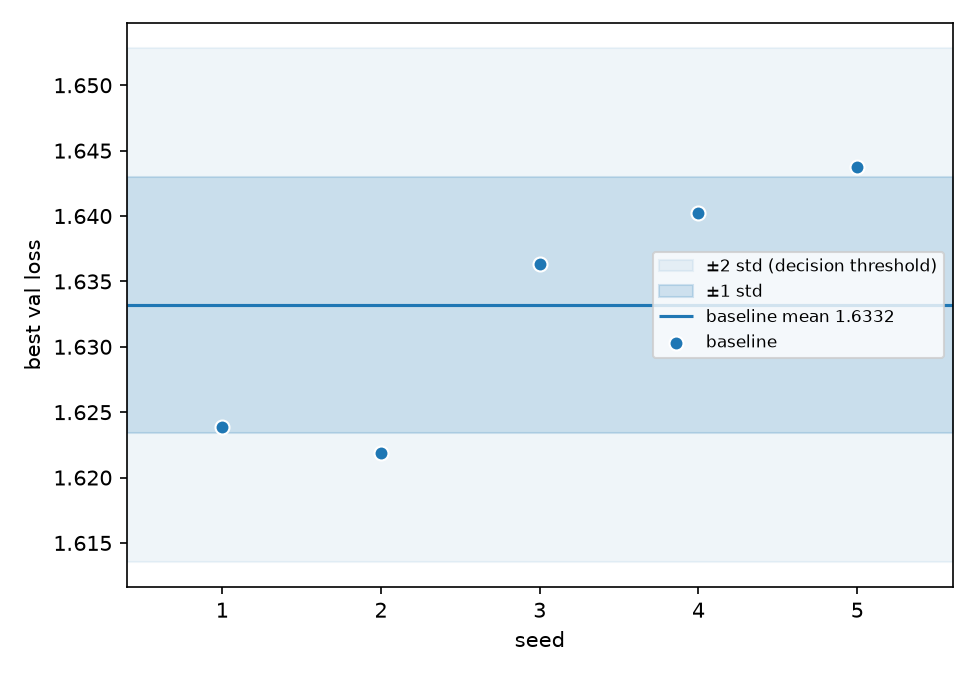
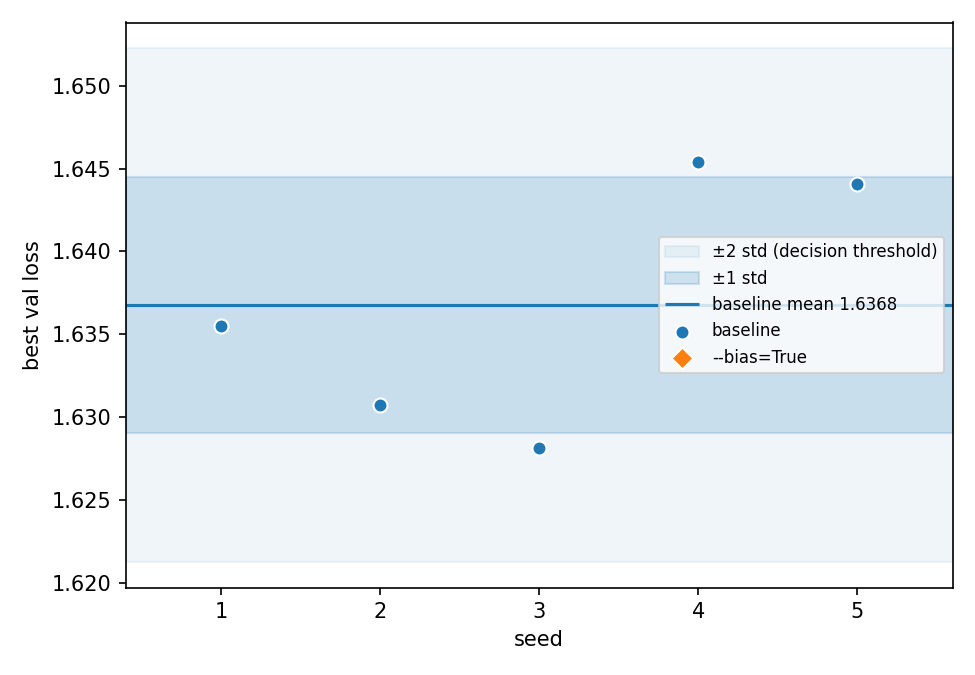
fix: default bias config to true, update 5-seed baseline numbers

diff --git a/configs/base.py b/configs/base.py
@@ -21,7 +21,7 @@ n_head = 4
 n_layer = 4
 n_kv_heads = 2                        
 
-bias = False                        
+bias = True                     
 
 # Architecture — flip these to test a different combination
 attention = "mha"

diff --git a/log.md b/log.md
@@ -30,17 +30,21 @@ Ran the baseline config over 5 seeds; init_seed and train_seed move together; ev
 
 | seed | best val | best iter | train @ best | gap | params | sec/iter |
 |---|---|---|---|---|---|---|
-| 1 | 1.6239 | 2000 | 1.4258 | 0.198 | 805,441 | 0.0453 |
-| 2 | 1.6219 | 2000 | 1.4214 | 0.201 | 805,441 | 0.0445 |
-| 3 | 1.6363 | 2000 | 1.4287 | 0.208 | 805,441 | 0.0461 |
-| 4 | 1.6402 | 2000 | 1.4302 | 0.210 | 805,441 | 0.0447 |
-| 5 | 1.6437 | 1800 | 1.4431 | 0.201 | 805,441 | 0.0453 |
-| **mean ± std** | **1.6332 ± 0.0098** | | | 0.203 ± 0.005 | | 0.0452 |
+| 1 | 1.6355 | 2000 | 1.4265 | 0.209 | 810,049 | 0.0538 |
+| 2 | 1.6307 | 1800 | 1.4333 | 0.197 | 810,049 | 0.0528 |
+| 3 | 1.6281 | 2000 | 1.4211 | 0.207 | 810,049 | 0.0518 |
+| 4 | 1.6454 | 2000 | 1.4312 | 0.214 | 810,049 | 0.0546 |
+| 5 | 1.6441 | 1800 | 1.4419 | 0.202 | 810,049 | 0.0534 |
+| **mean ± std** | **1.6368 ± 0.0077** | | | 0.206 ± 0.006 | | 0.0533 |
 
 <p align="center">
     <img src="./plots/seed_strip.png" alt="Baseline seed spread">
 </p>
 
-- **Decision rule:** Baseline best val is 1.6332 ± 0.0098 over 5 seeds, so a variant is clearly different only if it lands outside the ±2 std band (about 1.613 to 1.653) and is noise if it stays within 1 std. In between, I'll rerun it at seeds 2-5 and count it only if the mean gap exceeds 2 std and the sign matches in at least 4 of 5 paired seeds.
-- The gap (val minus train) shows how much the model is overfitting, and its tiny spread (±0.005) means a variant whose gap moves clearly outside 0.203 changed how it generalizes, which tells you whether a val-loss win came from fitting better or from overfitting less.
-- Four seeds peaked at iter 2000 and seed 5 at 1800, so the runs are still improving slightly at the end of 2000 iterations.
+- **Decision rule:** Baseline best val is 1.6368 ± 0.0077 over 5 seeds, so a variant is clearly different only if it lands outside the ±2 std band (about 1.621 to 1.652) and is noise if it stays within 1 std. In between, I'll rerun it at seeds 2-5 and count it only if the mean gap exceeds 2 std and the sign matches in at least 4 of 5 paired seeds.
+- The gap (val minus train) shows how much the model is overfitting, and its tiny spread (±0.006) means a variant whose gap moves clearly outside 0.206 changed how it generalizes, which tells you whether a val-loss win came from fitting better or from overfitting less.
+- Three seeds peaked at iter 2000 and seeds 2 and 5 at 1800, so the runs are still improving slightly at the end of 2000 iterations.
+___
+1) RMSnorm
+Hypothesis: Not much difference, within noise band. Rmsnorm drops mean centering, so it could decrease sec/iter, but val loss not really. this might be more relevant for larger models, but not really at this scale.
+Config: [mlp mha rmsnorm rope]
